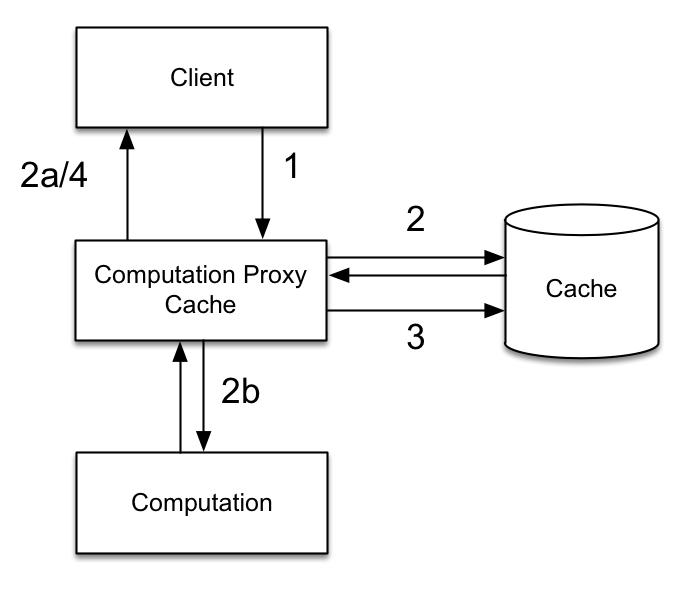
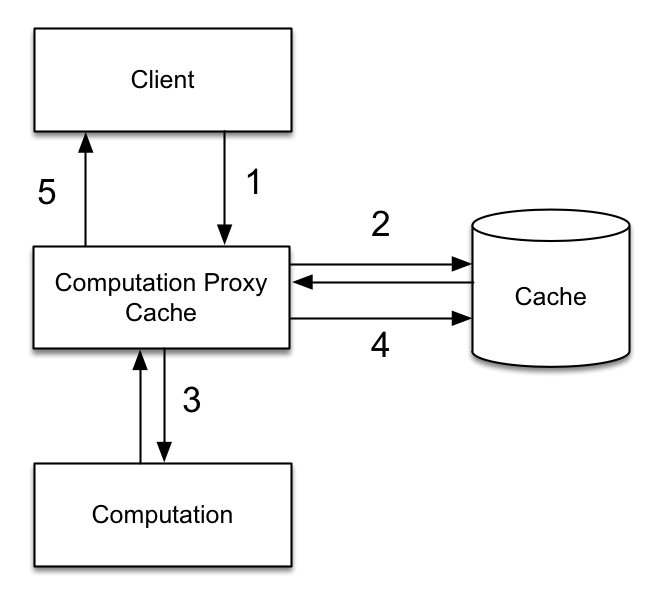
Figures and all dat stuff

diff --git a/writing/2-caching-model.tex b/writing/2-caching-model.tex
@@ -11,23 +11,21 @@ are able to retrieve it fast, such that it is possible to get the result fast
 instead of recomputing it. This basic algorithm is illustrated on
 figure~\ref{fig:basic-caching} and can be described as following:
 
-\begin{enumerate}
-  \item The result $v$ of a computation $f$ is requested.
-  \item We check if $v$ is cached and is valid.
-    \begin{itemize}
-      \item[2a] If $v$ is cached and valid, we return $v$ and terminate.
-      \item[2b] Else we compute $f$
-    \end{itemize}
-  \item The new value $v'$ is stored in the cache.
-  \item $v'$ is returned.
-\end{enumerate}
-
 \begin{figure*}[ht!]
   \centering
-  \includegraphics[width=0.5\linewidth]{figures/basic-caching-figure.png}
+  \includegraphics[width=0.6\linewidth]{figures/basic-caching-figure.pdf}
+  \begin{enumerate}
+    \item The result $v$ of a computation $f$ is requested.
+    \item If $v$ is cached and is valid, we go to 5 with $v'=v$. Else we continue.
+    \item We run the computation $f$
+    \item The new result $v'$ of $f$ is stored in the cache.
+    \item $v'$ is returned.
+  \end{enumerate}
   \caption{The flow of basic caching}
   \label{fig:basic-caching}
 \end{figure*}
+
+In some cases, where the client is not allowed to wait for the computation to run, step 3-4 are replaced by a step that simply returns an empty value.
 
 If we look at the cached value from an abstract point of view, we can see it
 as a \emph{result of a function} given certain \emph{inputs}. Sometimes the
@@ -39,28 +37,29 @@ In order for the algorithm to work, we need to be sure that when we store
 the cached value it has to be uniquely identified by some key such that when
 we lookup the value as in step 2 of the algorithm, we always locate $v$. This
 presents one of the challenges of cache management, which is in many cases
-closely related to cache invalidation (one of the two hard things in computer science\footnote{At least a favorite saying of Martin Fowler and quote by Phil Karlton}).
+closely related to cache invalidation (one of the two hard things in computer science\footnote{Not scientifically, but at least a favorite saying of Martin Fowler and quote by Phil Karlton}).
 
 In the algorithm cache invalidation is simply described as a \emph{check}, but
 in reality this is the hard challenge of caching. The \emph{check} could be
 a precomputed indicator from earlier triggers, it could be based on a key
 derived from the underlying data or some timestamp. These cache invalidation
-approaches will be described more in
-
-
-
-
-
-
-% Introduce how caching works
-% How does caching work?
-%
+approaches will be described more in section~\ref{sec:invalidation_techniques}.
 
 \subsection{Architecture}
 \label{subsec:architecture}
 
-% Show the architecture of a web application with a cache
-%   This figure should be used to describe architecture specific techniques
+\begin{figure*}[ht!]
+  \centering
+  \includegraphics[width=0.5\linewidth]{figures/architecture.pdf}
+  \caption{The assumed architecture of the system}
+  \label{fig:caching-basics-architecture}
+\end{figure*}
+
+The architecture of the web application in which the cache is used is important to how the cache system. We assume that the architecture of the system is a common web application architecture as illustrated in figure~\ref{fig:caching-basics-architecture} consisting of a web application that serves HTTP-requests from the client (represented by the user) and interacts with a primary storage database to store and load data. To store and fetch the cached content we introduce a cache database. This could easily be the same unit as the primary storage database, but we separate them for better clarification.
+
+Most modern web applications needs to serve multiple users at the same time, which means the web application must run on multiple processes\footnote{This is processes as an abstract term used in distributed systems. If we need to be implementation specific this could just as well be threads.} either on a single or multiple machines. We will therefore treat the web application as a distributed system.
+
+A popular choice for cache databases are key-value stores such as Redis~\footnote{http://redis.io/} and Memcached~\footnote{https://memcached.org/} since they are simple distributed key-value stores that lives in memory and therefore allows for scalability and high-performance operations. In order to support most practical web applications, we will therefore make the assumption that the cache database has the same functionality: it should be possible to store arbitrary content for a given key. Furthermore the final solution of this thesis require the cache database to support atomic transactions for a given key, which are supported in Memcached using the CAS command~\cite{docs:memcached-protocol} and in Redis using the \verb$WATCH$-command~\cite{docs:redis-transactions}. The reasons behind this assumption will be explained more in chapter~\ref{chapter:update_propagation}.
 
 % subsection architecture end
 

diff --git a/writing/1-introduction.tex b/writing/1-introduction.tex
@@ -43,7 +43,7 @@ We discuss this more in chapter~\ref{chapter:caching} and~\ref{chapter:invalidat
 
 The second challenge is related to the task of efficiently keeping the cached values up to date and ensure the consistency between the cache and the storage system. At first, if we need to support the web application to be scalable, we need multiple web application processes. This means we run the cache updates in parallel and we therefore need to prevent concurrency bugs and ensure liveness and correctness of the solution.
 
-This challenge will be covered in chapter~\ref{cahpter:update_propagation}.
+This challenge will be covered in chapter~\ref{chapter:update_propagation}.
 
 % section problem end
 

diff --git a/writing/3-caching-approaches.tex b/writing/3-caching-approaches.tex
@@ -105,13 +105,6 @@ The requirement for strong consistency introduces complexity as seen with the tr
 
 % subsection function_caching end
 
-\section{Discussion}
-
-\section{Comparison of }
-\label{sec:comparison_of_}
-
-% section comparison_of_ end
-
 \section{Choosing the right Caching Technique}
 \label{sec:choosing_the_right_caching_technique}
 

diff --git a/writing/notes.md b/writing/notes.md
@@ -17,6 +17,7 @@
         - (Pull-based, pull-based) - maybe wait until next chapter
     - Architecture
       - Tell something about asynchronous/concurrent
+      -
   - Evaluating caching technique
     - Goals of caching
     - Criteria
@@ -25,6 +26,7 @@
       - Ease of management (invalidation)
       - Cache hit rate / Have to wait for computation?
       - Granularity
+
 
 - Existing caching approaches
   - Intro:
@@ -36,6 +38,7 @@
     - Expiration based invalidation
     - Key-based invalidation
     - Trigger-based invalidation
+      - Just invalidate or write through
     - Automatic invalidation
   - Updating the cache
     - Solutions within pull and push-based
